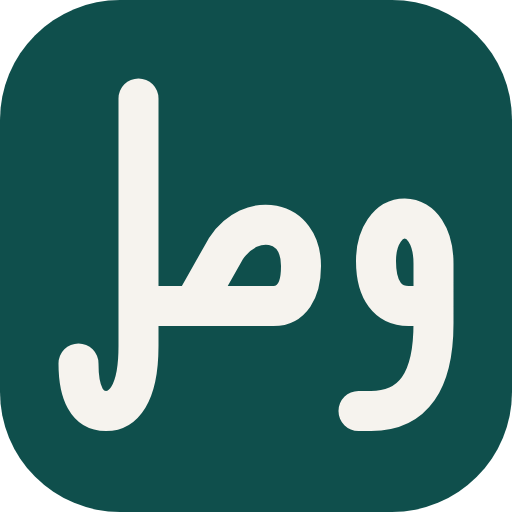
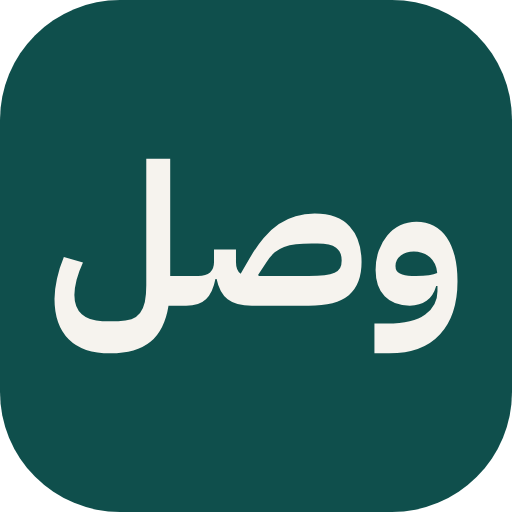
Brand mark: set وصل in IBM Plex Sans Arabic Bold instead of drawn strokes
The hand-drawn stroke mark read as odd. The mark is now the word وصل typed
in IBM Plex Sans Arabic Bold, shaped with HarfBuzz and stored as filled
glyph outlines (fontTools SVG pen), so it needs no font at runtime and
Satori renders it as a plain path. One path at every size, centred in the
same rounded tile and tones; at 16px and below the tile padding shrinks
from 3 to 1.5 units so the word draws larger.

MASTER and HINTED are replaced by WORD. The icon.svg dark-mode rule now
sets fill instead of stroke, and build-brand's bare-word bounds are 31/32.
The lab's sad-lam concept keeps its original صل stroke paths inline.
Assets regenerated with scripts/build-brand.tsx.

Changed region(s): [[0.0938, 0.1562, 0.9062, 0.8438]]

diff --git a/web/components/brand/mark.tsx b/web/components/brand/mark.tsx
@@ -12,29 +12,18 @@ export const BRAND = {
 } as const;
 
 /**
- * وصل ("connect", "link") in three strokes, redrawn from IBM Plex Sans Arabic's joined وصل as a single weight:
- * the ل with its ascender and descender bowl, the baseline running into a narrow ص bowl, and the non-joining و set
- * apart with its tail kept clear of the ص. The ص tooth is dropped so the letters keep visible gaps at small sizes.
+ * وصل typed in IBM Plex Sans Arabic Bold: shaped with HarfBuzz and stored as filled glyph outlines (fontTools SVG pen),
+ * so no font loads at runtime and Satori draws it as a plain path. Fitted to x 0.5 to 31.5 of the 32-unit grid,
+ * centred on y=16. Bold, not SemiBold, so the strokes stay a full pixel wide in the 16px favicon.
  */
-export const MASTER = {
+export const WORD = {
   grid: 32,
-  stroke: 3.2,
-  d: "M6.6 3.4V23.2C6.6 27.2 5.3 28.4 4 28.4C2.5 28.4 1.8 27 1.8 24.6M6.6 20H17.4C18.8 20 19.6 18.8 19.6 16.8C19.6 13 15.6 12.4 13.6 15.4L11 20M24.2 28.4H25.2C28.6 28.4 30.2 26 30.2 21.4V16.6C30.2 14.4 29.2 13 27.9 13C26.6 13 25.6 14.4 25.6 16.4C25.6 18.8 26.6 20 28.2 20H30.2",
+  d: "M4.8 23.49Q2.67 23.49 1.59 22.4Q0.5 21.3 0.5 19.3Q0.5 18.61 0.69 17.75Q0.88 16.89 1.22 16.08L2.69 16.5Q2.38 17.16 2.2 17.83Q2.03 18.51 2.03 19Q2.03 19.96 2.6 20.49Q3.18 21.01 4.18 21.01H5.41Q6 21.01 6.42 20.87Q6.83 20.72 7.08 20.39Q7.33 20.07 7.45 19.54Q7.56 19.01 7.56 18.25V8.51H9.4V17.53H11.09V19.36L10.63 19.82H9.27Q8.97 21.7 7.88 22.6Q6.8 23.49 4.8 23.49ZM14.46 16.46Q14.46 17.12 14.82 17.36L15.5 16.2Q16.03 15.27 16.59 14.61Q17.15 13.95 17.76 13.54Q18.37 13.13 19.05 12.94Q19.73 12.74 20.51 12.74Q22.31 12.74 23.21 13.73Q24.12 14.72 24.12 16.47Q24.12 18.2 23.14 19.01Q22.16 19.82 20.05 19.82H15.68Q14.46 19.82 13.82 19.32Q13.19 18.83 12.97 17.76H12.88Q12.67 18.83 12.15 19.32Q11.63 19.82 10.63 19.82V17.99L11.09 17.53H11.55Q12.77 17.53 12.77 16.46V15.5H14.46ZM20.05 17.53Q20.78 17.53 21.27 17.48Q21.75 17.42 22.05 17.29Q22.34 17.16 22.47 16.93Q22.59 16.7 22.59 16.34Q22.59 15.68 22.16 15.36Q21.73 15.04 20.74 15.04H20.28Q19.59 15.04 19.07 15.09Q18.55 15.14 18.16 15.3Q17.76 15.45 17.44 15.72Q17.12 16 16.83 16.44L16.17 17.44L16.21 17.53ZM25.11 21.2H26.09Q28.09 21.2 29.02 20.5Q29.96 19.81 29.96 18.71V18.31H29.86Q29.64 19.09 29.12 19.45Q28.61 19.82 27.83 19.82Q26.59 19.82 25.9 19.1Q25.2 18.37 25.2 17.07Q25.2 16.28 25.44 15.59Q25.68 14.91 26.1 14.42Q26.52 13.92 27.09 13.64Q27.66 13.36 28.34 13.36Q29.08 13.36 29.67 13.67Q30.26 13.98 30.67 14.57Q31.07 15.16 31.29 16.02Q31.5 16.87 31.5 17.94Q31.5 20.56 30.16 22.02Q28.82 23.49 26.24 23.49H25.11ZM28.31 17.53Q28.9 17.53 29.3 17.48Q29.7 17.42 29.94 17.3Q29.88 16.55 29.38 16.1Q28.87 15.65 28.14 15.65Q27.54 15.65 27.14 15.96Q26.73 16.28 26.73 16.76Q26.73 17.18 27.07 17.35Q27.4 17.53 27.98 17.53Z",
 } as const;
 
-/**
- * The 16px drawing: every stroke centre sits on a whole pixel (ل stem x=4, ص sides x=7 and x=10, و x=13 to 14,
- * baseline y=11), so the 2px strokes stay crisp, with clean one-pixel columns between ل and ص (x=5) and ص and و (x=11)
- * and a one-pixel hole in the ص bowl. Already inset for the tile.
- */
-export const HINTED = {
-  grid: 16,
-  stroke: 2,
-  d: "M4 2.5V12.5C4 13.6 3.4 14 2.8 14C2.3 14 2 13.6 2 13V12M4 11H9C9.6 11 10 10.6 10 10V7C10 6.4 9.6 6 9 6H8C7.4 6 7 6.4 7 7V11M14 11H13V8C13 7.6 13.2 7.4 13.5 7.4C13.8 7.4 14 7.6 14 8V12.6C14 13.5 13.6 14 12.8 14H12",
-} as const;
-
-const TILE_INSET = 3.5;
-const TILE_RX = { 32: 7.5, 16: 3.5 } as const;
+/** Padding around the word inside the tile; at 16px and below the word grows to fill the tile so it stays legible. */
+const TILE_INSET = { regular: 3, small: 1.5 } as const;
+const TILE_RX = 7.5;
 
 /**
  * `light` sits on paper or sand: teal tile with a paper knockout, or a teal bare mark.
@@ -48,16 +37,14 @@ const TONES = {
 } as const;
 
 /** A plain function, not a component: Satori (the OG renderer) accepts only intrinsic elements inside <svg>. */
-function stroke(geometry: typeof MASTER | typeof HINTED, color: string) {
-  return (
-    <path d={geometry.d} fill="none" stroke={color} strokeWidth={geometry.stroke} strokeLinecap="round" strokeLinejoin="round" />
-  );
+function word(color: string) {
+  return <path d={WORD.d} fill={color} />;
 }
 
 /**
  * The symbol. `tile` knocks the mark out of a rounded square (favicon, app icon, sidebar, phone);
- * `bare` is the mark alone (lockups). `color` sets a one-colour mark, or the tile ground.
- * At 16px and below it switches to the hinted drawing, which stays sharp where the master blurs.
+ * `bare` is the word alone (lockups). `color` sets a one-colour mark, or the tile ground. One path at every size;
+ * at 16px and below the tile padding shrinks so the word is drawn larger.
  */
 export function Mark({
   size,
@@ -77,9 +64,8 @@ export function Mark({
   style?: CSSProperties;
 }) {
   const t = TONES[tone];
-  const hinted = typeof size === "number" && size <= 16;
-  const geometry = hinted ? HINTED : MASTER;
-  const g = geometry.grid;
+  const g = WORD.grid;
+  const inset = typeof size === "number" && size <= 16 ? TILE_INSET.small : TILE_INSET.regular;
   const svgProps = {
     xmlns: "http://www.w3.org/2000/svg",
     width: size,
@@ -96,21 +82,15 @@ export function Mark({
   if (variant === "bare") {
     return (
       <svg {...svgProps}>
-        {stroke(geometry, color ?? t.ground)}
+        {word(color ?? t.ground)}
       </svg>
     );
   }
   const ground = color ?? t.ground;
   return (
     <svg {...svgProps}>
-      <rect width={g} height={g} rx={TILE_RX[g]} fill={ground} />
-      {hinted ? (
-        stroke(HINTED, t.knockout)
-      ) : (
-        <g transform={`translate(${TILE_INSET} ${TILE_INSET}) scale(${(g - TILE_INSET * 2) / g})`}>
-          {stroke(MASTER, t.knockout)}
-        </g>
-      )}
+      <rect width={g} height={g} rx={TILE_RX} fill={ground} />
+      <g transform={`translate(${inset} ${inset}) scale(${(g - inset * 2) / g})`}>{word(t.knockout)}</g>
     </svg>
   );
 }

diff --git a/web/components/brand/concepts/sad.tsx b/web/components/brand/concepts/sad.tsx
@@ -1,19 +1,18 @@
-import { HINTED, MASTER } from "../mark";
 import type { Concept } from "./types";
 
-/** c) Began as صل from وصل as one thread; now the full word وصل in the same stroke. Chosen; the product draws it from `../mark`. */
+/** c) صل from وصل as one thread: the ص bowl, the baseline, and the ل rising out of it. Shipped first; the product now sets the typed word وصل from `../mark`. */
 export const sad: Concept = {
   id: "sad",
-  name: "Wasl thread",
-  idea: "وصل drawn as one weight of stroke: the و, the ص bowl and the ل joined along the baseline.",
+  name: "Sad-lam thread",
+  idea: "The connected ص and ل of وصل drawn as a single unbroken thread.",
   draw: (ink) => (
-    <g fill="none" stroke={ink} strokeWidth={MASTER.stroke} strokeLinecap="round" strokeLinejoin="round">
-      <path d={MASTER.d} />
+    <g fill="none" stroke={ink} strokeWidth={3.2} strokeLinecap="round" strokeLinejoin="round">
+      <path d="M8 4.5V21C8 27.5 2.5 27.5 2.5 23.5M8 22H15C15 14 28.5 12.5 28.5 18.5C28.5 22 24 22 15 22" />
     </g>
   ),
   small: (ink) => (
-    <g fill="none" stroke={ink} strokeWidth={HINTED.stroke} strokeLinecap="round" strokeLinejoin="round">
-      <path d={HINTED.d} />
+    <g fill="none" stroke={ink} strokeWidth={2} strokeLinecap="round" strokeLinejoin="round">
+      <path d="M5 3V10.5C5 13.5 2.5 13.5 2.5 12.5M5 11H8C8 5 14.5 4.5 14.5 8.5C14.5 11 12 11 8 11" />
     </g>
   ),
 };

diff --git a/web/scripts/build-brand.tsx b/web/scripts/build-brand.tsx
@@ -11,8 +11,8 @@ import { BRAND, Mark } from "../components/brand/mark";
 const root = join(__dirname, "..");
 const svg = (el: React.ReactElement) => renderToStaticMarkup(el).replace(/ (class|data-brand|aria-hidden)="[^"]*"/g, "");
 
-/** The bare mark's stroked bounds span 31.6 of its 32 units (x 0.2 to 31.8). */
-const BARE_FILL = 31.6 / 32;
+/** The bare word spans 31 of its 32 units (x 0.5 to 31.5). */
+const BARE_FILL = 31 / 32;
 
 function fullBleed(side: number, markShare: number) {
   const size = Math.round((side * markShare) / BARE_FILL);
@@ -52,7 +52,7 @@ async function main() {
   for (const size of [16, 32, 48]) favicon.push({ size, png: await png(svg(<Mark size={size} />)) });
   await writeFile(join(root, "app/favicon.ico"), ico(favicon));
 
-  const darkTab = `<style>@media (prefers-color-scheme:dark){rect{fill:${BRAND.mint}}path{stroke:${BRAND.ink}}}</style>`;
+  const darkTab = `<style>@media (prefers-color-scheme:dark){rect{fill:${BRAND.mint}}path{fill:${BRAND.ink}}}</style>`;
   await writeFile(join(root, "app/icon.svg"), svg(<Mark size={16} />).replace(/(<svg[^>]*>)/, `$1${darkTab}`) + "\n");
 
   await writeFile(join(root, "app/apple-icon.png"), await png(fullBleed(180, 0.6)));
